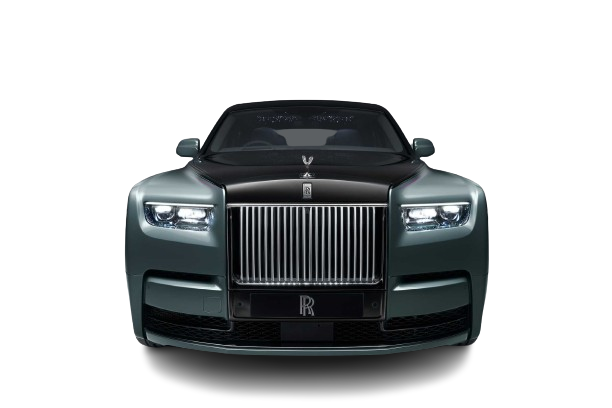
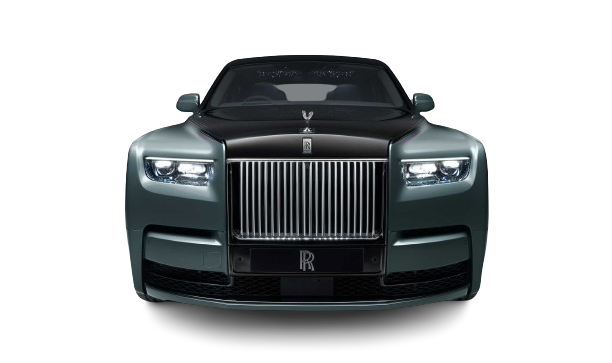
cars in carousel adjusted

Changed region(s): [[0.1863, 0.1515, 0.8072, 0.9697]]

diff --git a/src/component/Hero/hero.css b/src/component/Hero/hero.css
@@ -9,7 +9,6 @@
   position: relative;
   width: 100vw;
   height: 100vh;
-  /* max-height: 800px; */
   background-repeat: no-repeat;
   background-position: center;
   background-size: cover;
@@ -184,11 +183,11 @@ select:focus {
 }
 
 .left-button{
-  left: -2%;
+  left: -30px;
 }
 
 .right-button{
-  right: -2%;
+  right: -30px;
 }
 
 .hero-overlay{

diff --git a/src/component/Book Now/bookNow.css b/src/component/Book Now/bookNow.css
@@ -19,9 +19,9 @@
     /* border: 2px solid yellow; */
 }
 .bookNow-left img{
-    width: 100%;
+    width: 70%;
     position: absolute;
-    top: -70px;
+    top: -55px;
     /* border: 2px solid red; */
 }
 .bookNow-right{
